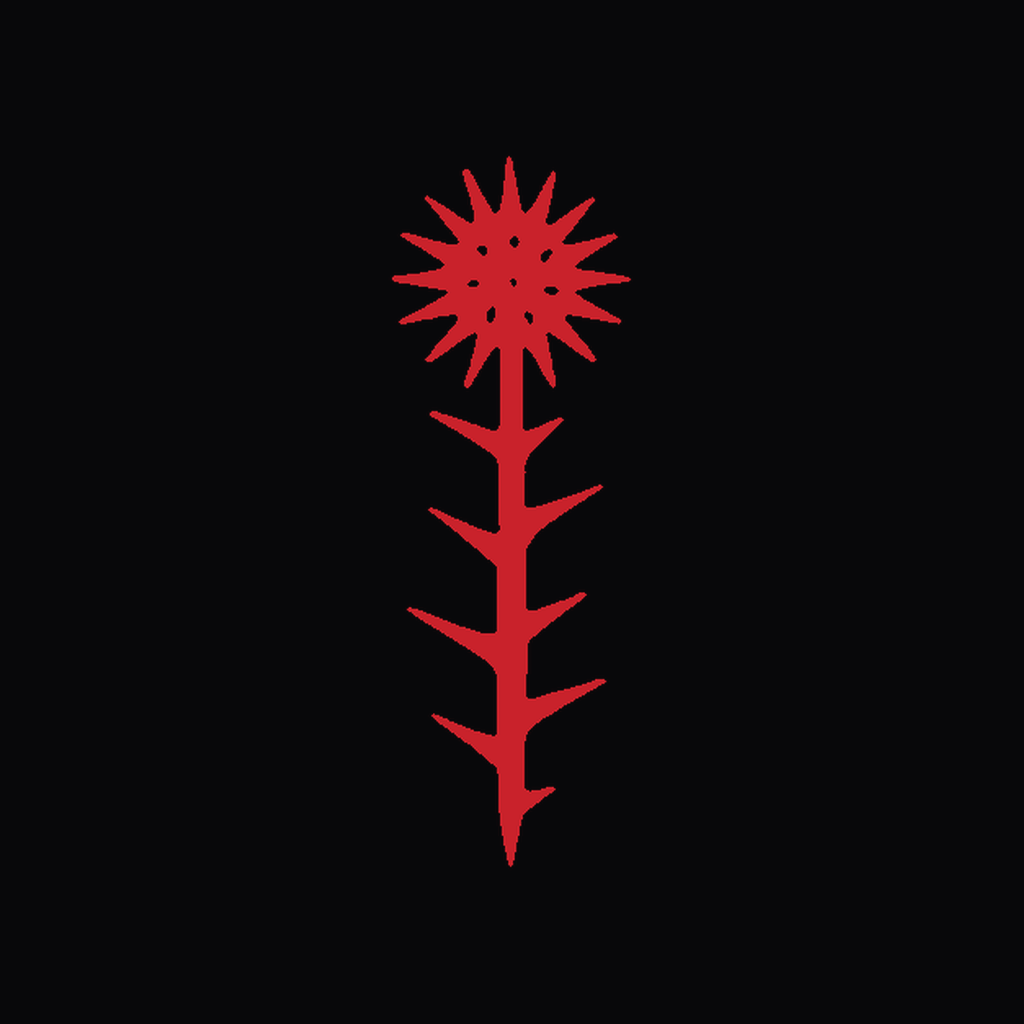
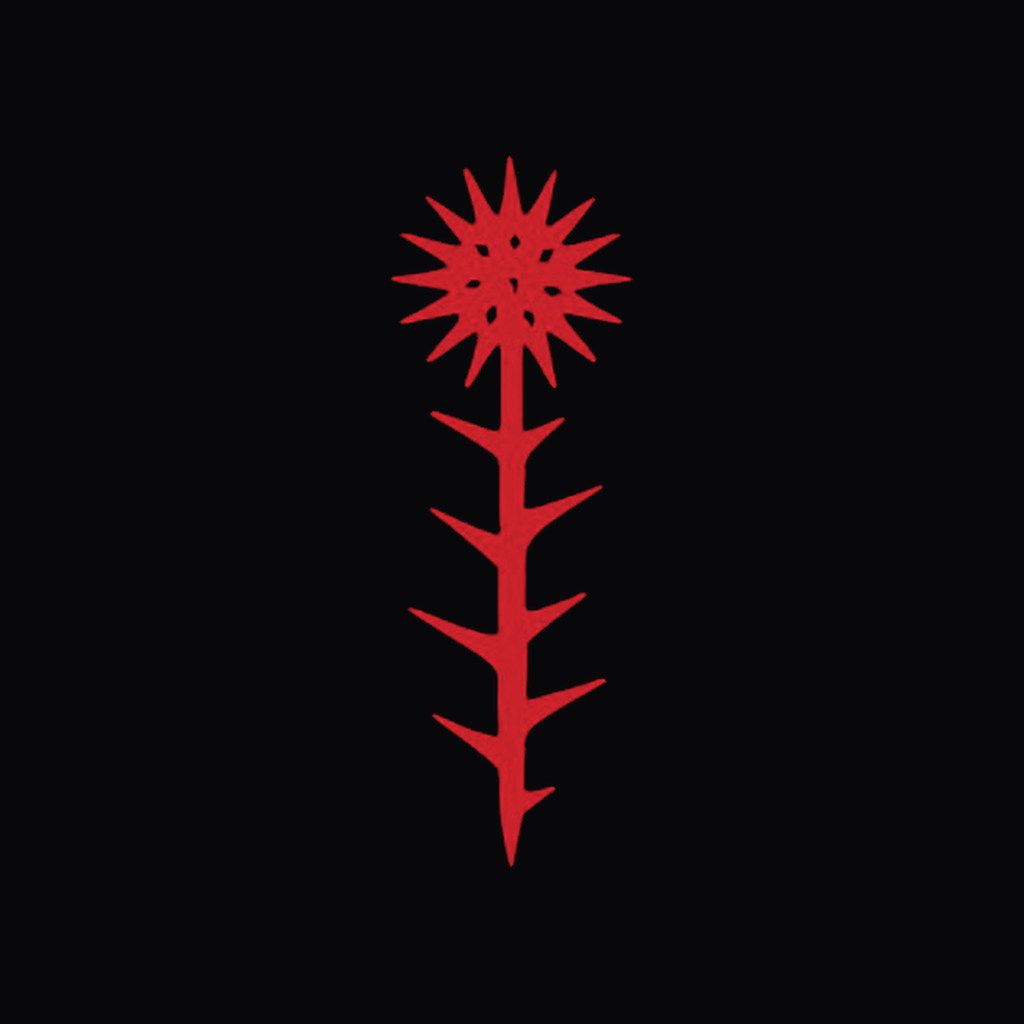
Move the new mark red into the brand masters.
The colour lived only in this repo's build scripts, so the SVG and every
file in the logo folder still carried #a20f15. It now lives in the masters
themselves: recolor_brand_masters.py records that migration, and the tint
steps come back out of the favicon and brand-asset builds so there is one
source of truth again.

Their build_logo_assets.py also gets two fixes, which is what made the
lettering in the SVG diverge from the art: RETR_EXTERNAL threw the counters
of D and B away and filled them in solid, and the 0.0025 epsilon ratio came
to 9.6px on a 958px canvas, flattening the curves. With RETR_CCOMP, even-odd
fill and a 0.00013 ratio, the SVG's mean difference against the reference
PNG drops from 5.22 to 2.94 and divergent pixels from 3.33% to 2.24%, the
rest being the antialiased rim a vector cannot carry. Colours are read from
the dominant masked pixel rather than the mean, which the rim was dragging
off the flat colour.

diff --git a/scripts/build_brand_kit.py b/scripts/build_brand_kit.py
@@ -1,12 +1,13 @@
 """
 Export a brand kit for use outside the site (itch.io, stores, press, social).
 
-The mark is recoloured from the source #990f15 / #a20f15 to #c9222b, which is the
-same hue lifted to 3.6:1 on the site's black. Logos are exempt from the WCAG
-contrast criteria, so this is legibility, not conformance.
+Everything derives from the masters in SRC_DIR, which already carry the mark in
+#c9222b — see recolor_brand_masters.py for that one-off migration. Nothing here
+recolours the mark; if the brand red changes again, it changes in the masters and
+this script just follows.
 
-SVGs are recoloured by substitution on the vector master, so they stay vector.
-PNGs come from the 958px transparent layers, tinted before any resize.
+The vector master is produced by the folder's own build_logo_assets.py, traced
+from the same art as the PNG, so the two agree.
 """
 from __future__ import annotations
 
@@ -19,15 +20,14 @@ from PIL import Image
 SRC_DIR = Path(r"C:\Stuff\Devil's Club\devils-club-logo")
 OUT = Path(__file__).resolve().parent.parent / "assets" / "brand"
 
-SVG_SRC = SRC_DIR / "devils-club-logo-on-light.svg"
+SVG_DARK_SRC = SRC_DIR / "devils-club-logo.svg"            # on black
+SVG_LIGHT_SRC = SRC_DIR / "devils-club-logo-on-light.svg"  # on white
 ICON_SRC = SRC_DIR / "devils-club-logo-icon-transparent.png"
 TEXT_SRC = SRC_DIR / "devils-club-logo-text-transparent.png"
 
-OLD_MARK = "#990f15"      # flower in the vector master
-OLD_LETTERS = "#282828"   # wordmark in the vector master
-MARK = "#c9222b"          # new mark red
-LETTERS_DARK = "#edeae5"  # wordmark on dark backgrounds
+MARK = "#c9222b"
 PNG_HEIGHT = 1024
+PLATE = re.compile(r'\s*<rect[^>]*width="100%"[^>]*/>\s*')
 
 
 def fit_viewbox(svg: str, pad: int = 12) -> str:
@@ -46,17 +46,8 @@ def fit_viewbox(svg: str, pad: int = 12) -> str:
     svg = re.sub(r'viewBox="[^"]*"', f'viewBox="{x0:g} {y0:g} {w:g} {h:g}"', svg, count=1)
     svg = re.sub(r'\swidth="\d+"\s+height="\d+"', f' width="{w:g}" height="{h:g}"',
                  svg, count=1)
-    # A full-bleed plate must follow the new box, not the old one.
     return svg.replace('<rect width="100%" height="100%"',
                        f'<rect x="{x0:g}" y="{y0:g}" width="{w:g}" height="{h:g}"')
-
-
-def tint(im: Image.Image, hex_rgb: str) -> Image.Image:
-    """Repaint opaque pixels, leaving alpha (and so the antialiased edges) alone."""
-    rgb = tuple(int(hex_rgb[i:i + 2], 16) for i in (1, 3, 5))
-    data = np.array(im)
-    data[:, :, 0], data[:, :, 1], data[:, :, 2] = rgb
-    return Image.fromarray(data)
 
 
 def trim(im: Image.Image, pad: int = 8) -> Image.Image:
@@ -74,30 +65,30 @@ def to_height(im: Image.Image, h: int) -> Image.Image:
 
 
 def main() -> None:
-    missing = [p for p in (SVG_SRC, ICON_SRC, TEXT_SRC) if not p.exists()]
+    sources = (SVG_DARK_SRC, SVG_LIGHT_SRC, ICON_SRC, TEXT_SRC)
+    missing = [p for p in sources if not p.exists()]
     if missing:
         raise SystemExit("Missing sources: " + ", ".join(str(p) for p in missing))
     OUT.mkdir(parents=True, exist_ok=True)
 
-    svg = SVG_SRC.read_text(encoding="utf-8")
-    if OLD_MARK not in svg:
-        raise SystemExit(f"{OLD_MARK} not found in the vector master; check the source")
+    dark = SVG_DARK_SRC.read_text(encoding="utf-8")
+    if MARK not in dark:
+        raise SystemExit(f"{MARK} not in the vector master — rebuild it first")
 
-    # On light: keep the dark letters, drop nothing.
+    # On dark: drop the black plate so the file drops onto any dark surface.
+    (OUT / "devils-club-logo-on-dark.svg").write_text(
+        fit_viewbox(PLATE.sub("\n  ", dark)), encoding="utf-8")
+
     (OUT / "devils-club-logo-on-light.svg").write_text(
-        fit_viewbox(svg.replace(OLD_MARK, MARK)), encoding="utf-8")
+        fit_viewbox(SVG_LIGHT_SRC.read_text(encoding="utf-8")), encoding="utf-8")
 
-    # On dark: light letters, and no white plate behind them.
-    dark = svg.replace(OLD_MARK, MARK).replace(OLD_LETTERS, LETTERS_DARK)
-    dark = dark.replace('<rect width="100%" height="100%" fill="#ffffff"/>', "")
-    (OUT / "devils-club-logo-on-dark.svg").write_text(fit_viewbox(dark), encoding="utf-8")
-
-    # Mark alone: drop every letter path and the plate.
+    # Mark alone: the red path, without the plate or the lettering.
     icon_only = "\n".join(
-        line for line in dark.splitlines() if f'fill="{LETTERS_DARK}"' not in line)
+        line for line in PLATE.sub("\n  ", dark).splitlines()
+        if "<path" not in line or MARK in line)
     (OUT / "devils-club-icon.svg").write_text(fit_viewbox(icon_only), encoding="utf-8")
 
-    icon = tint(Image.open(ICON_SRC).convert("RGBA"), MARK)
+    icon = Image.open(ICON_SRC).convert("RGBA")
     text = Image.open(TEXT_SRC).convert("RGBA")
 
     # The two layers share one canvas, so compositing rebuilds the lockup.

diff --git a/scripts/recolor_brand_masters.py b/scripts/recolor_brand_masters.py
@@ -1,0 +1,86 @@
+"""
+One-off migration: repaint the mark in the brand masters from #a20f15 to #c9222b.
+
+The masters live outside this repo and are not versioned, so this records what was
+done to them. A backup of the originals sits beside the folder.
+
+Only reddish pixels are touched; letters, outlines, plates and transparency are
+left alone. Each pixel is remapped proportionally (p -> p * new/old) rather than
+flattened to the new colour, which keeps both the antialiased edges and the slight
+grain the source art carries.
+
+Run this BEFORE the folder's own build_logo_assets.py, which regenerates the
+official 958px set (SVG, PNG, ICO, PDF, layers, on-light) from source.png.
+"""
+from __future__ import annotations
+
+import collections
+from pathlib import Path
+
+import numpy as np
+from PIL import Image
+
+BRAND = Path(r"C:\Stuff\Devil's Club\devils-club-logo")
+NEW = (201, 34, 43)  # #c9222b
+
+# Everything else in the folder is regenerated from source.png by their script.
+TARGETS = [
+    "source.png",
+    "Devil's Club Logo Terceira Versão.png",
+    "Devil's Club Logo com Contorno.png",
+    "Devil's Club Logo com Letras Brancas.png",
+    "Logo_Transparente com letras pretas.png",
+    "Logo_Transparente.png",
+    "GERAL.png",
+]
+
+
+def dominant_red(rgb: np.ndarray, mask: np.ndarray) -> tuple[int, int, int]:
+    """The flat colour of the mark, as the most common reddish pixel."""
+    counts = collections.Counter(map(tuple, rgb[mask]))
+    return counts.most_common(1)[0][0]
+
+
+def recolour(path: Path) -> str:
+    im = Image.open(path)
+    had_alpha = im.mode in ("RGBA", "LA") or "transparency" in im.info
+    rgba = np.array(im.convert("RGBA")).astype(np.int16)
+    rgb = rgba[:, :, :3]
+    r, g, b = rgb[:, :, 0], rgb[:, :, 1], rgb[:, :, 2]
+
+    # Reddish: red channel clearly ahead of both others, and not pure background.
+    mask = (r > g + 15) & (r > b + 15) & (rgba[:, :, 3] > 8)
+    if not mask.any():
+        return f"{path.name}: sem vermelho, intacto"
+
+    old = dominant_red(rgb, mask)
+    if old[0] == 0:
+        return f"{path.name}: vermelho degenerado, pulado"
+
+    # k is how much of the flat colour this pixel carries; the red channel is the
+    # least noisy estimator because it dominates the mark.
+    k = rgb[:, :, 0][mask] / old[0]
+    out = rgba.copy()
+    for i, channel in enumerate(NEW):
+        out[:, :, i][mask] = np.clip(k * channel, 0, 255)
+
+    result = Image.fromarray(out.astype(np.uint8), mode="RGBA")
+    if not had_alpha:
+        result = result.convert("RGB")
+    result.save(path, optimize=True)
+    return (f"{path.name}: #{old[0]:02X}{old[1]:02X}{old[2]:02X}"
+            f" -> #{NEW[0]:02X}{NEW[1]:02X}{NEW[2]:02X}"
+            f" em {int(mask.sum()):,} pixels")
+
+
+def main() -> None:
+    for name in TARGETS:
+        path = BRAND / name
+        if not path.exists():
+            print(f"  AUSENTE {name}")
+            continue
+        print("  " + recolour(path))
+
+
+if __name__ == "__main__":
+    main()

diff --git a/scripts/build_favicon.py b/scripts/build_favicon.py
@@ -10,9 +10,6 @@ SRC = Path(r"C:\Stuff\Devil's Club\devils-club-logo\parts\icone-01.png")
 ASSETS = Path(__file__).resolve().parent.parent / "assets"
 PAD_RATIO = 0.1
 BG = (8, 8, 10, 255)
-# The master art is #a20f15, which sits at 2.5:1 on the site's black. This lifts
-# the same hue to 3.6:1 without touching the drawing.
-TINT = (201, 34, 43)
 
 
 def load_icon(path: Path) -> Image.Image:
@@ -20,13 +17,6 @@ def load_icon(path: Path) -> Image.Image:
     data = np.array(rgba)
     dark = (data[:, :, 0] < 24) & (data[:, :, 1] < 24) & (data[:, :, 2] < 24)
     data[dark, 3] = 0
-    return Image.fromarray(data)
-
-
-def tint(im: Image.Image, rgb: tuple[int, int, int]) -> Image.Image:
-    """Repaint the mark in `rgb`, leaving the alpha (and so the edges) alone."""
-    data = np.array(im)
-    data[:, :, 0], data[:, :, 1], data[:, :, 2] = rgb
     return Image.fromarray(data)
 
 
@@ -56,7 +46,7 @@ def main() -> None:
         raise SystemExit(f"Missing source: {SRC}")
 
     ASSETS.mkdir(parents=True, exist_ok=True)
-    icon = fit_square(tint(load_icon(SRC), TINT))
+    icon = fit_square(load_icon(SRC))
     sizes = [(16, 16), (32, 32), (48, 48), (64, 64), (128, 128), (256, 256)]
     icons = [icon.resize(size, Image.Resampling.LANCZOS) for size in sizes]
     icons[0].save(

diff --git a/scripts/build_brand_assets.py b/scripts/build_brand_assets.py
@@ -17,9 +17,6 @@ TEXT_SRC = SRC_DIR / "devils-club-logo-text-transparent.png"
 
 HEADER_ICON_H = 44
 HEADER_WORDMARK_H = 32
-# The source art is #a20f15, 2.5:1 on the site's black. Same hue, raised to 3.6:1.
-# The wordmark is left alone: it is already off-white at 16.9:1.
-ICON_TINT = (201, 34, 43)
 # One high-res wordmark/icon for header + hero (CSS scales down/up)
 WORDMARK_EXPORT_H = 128
 ICON_EXPORT_H = 120
@@ -38,13 +35,6 @@ def trim_rgba(im: Image.Image, alpha_min: int = 8, pad: int = 4) -> Image.Image:
     return im.crop((x0, y0, x1, y1))
 
 
-def tint(im: Image.Image, rgb: tuple[int, int, int]) -> Image.Image:
-    """Repaint the mark in `rgb`, leaving the alpha (and so the edges) alone."""
-    data = np.array(im)
-    data[:, :, 0], data[:, :, 1], data[:, :, 2] = rgb
-    return Image.fromarray(data)
-
-
 def resize_to_height(im: Image.Image, height: int) -> Image.Image:
     if im.height == height:
         return im
@@ -58,7 +48,7 @@ def main() -> None:
 
     ASSETS.mkdir(parents=True, exist_ok=True)
 
-    icon = tint(trim_rgba(Image.open(ICON_SRC).convert("RGBA")), ICON_TINT)
+    icon = trim_rgba(Image.open(ICON_SRC).convert("RGBA"))
     icon_hi = resize_to_height(icon, ICON_EXPORT_H)
     icon_hi.save(ASSETS / "logo-icon.png", optimize=True)
 
